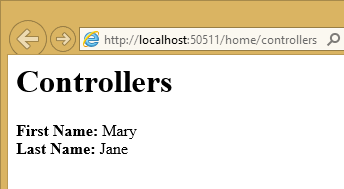
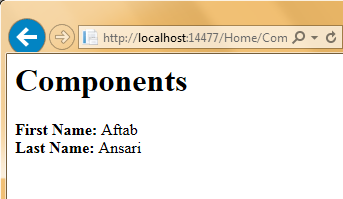
ng15 change

diff --git a/aspnet/client-side/angular/sample/AngularSample/src/AngularSample/wwwroot/_references.js b/aspnet/client-side/angular/sample/AngularSample/src/AngularSample/wwwroot/_references.js
@@ -1,5 +1,6 @@
 /// <autosync enabled="true" />
 /// <reference path="../gulpfile.js" />
+/// <reference path="app/components.js" />
 /// <reference path="app/controllers.js" />
 /// <reference path="app/eventHandlerController.js" />
 /// <reference path="app/personApp.js" />
